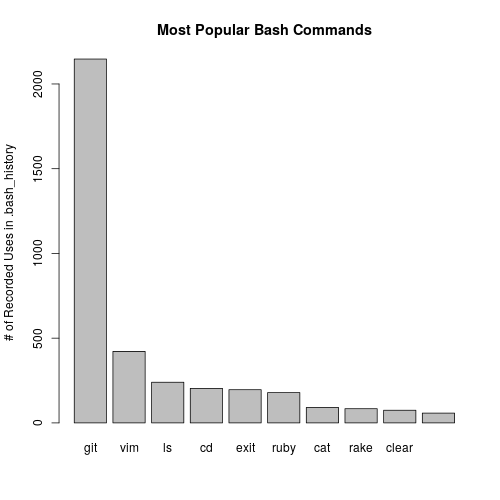
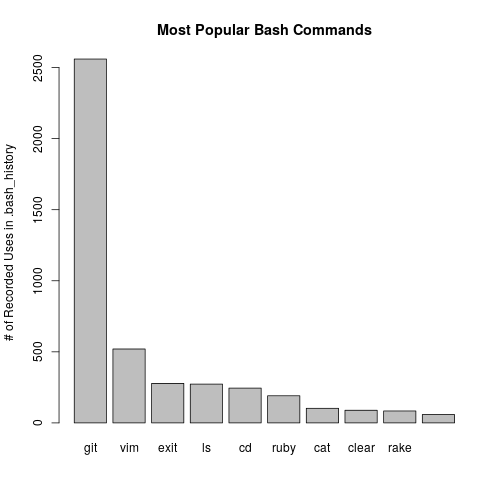
Categorize Data by Totals & Dates

diff --git a/analyze.rb b/analyze.rb
@@ -2,7 +2,7 @@
 
 require 'json'
 
-data = {}
+data = { totals: {} }
 aliases = {}
 
 # replace *.rb with ruby etc.
@@ -34,6 +34,9 @@ File.readlines('/home/caleb/.bash_aliases').each do |line|
 end
 
 Dir.glob('data/*').each do |file|
+  date = file.match(/([0-9-]{10}) (?:[0-9:]{5})\.txt/i).captures[0]
+  year, month, day = date.split('-')
+
   File.readlines(file).each do |line|
     command = line.strip.split(/[\s;]/)[0]
 
@@ -41,20 +44,22 @@ Dir.glob('data/*').each do |file|
     command = aliases[command] unless aliases[command].nil?
     command = sub_scripts(command)
 
-    if data[command].nil?
-      data[command] = 1
-    else
-      data[command] += 1
-    end
+    data[:totals][command] = data[:totals][command].to_i + 1
+
+    # NOTE Change How This is Found to Change Bin Width
+    bin = year + '-' + month
+
+    data[bin] = {} if data[bin].nil?
+    data[bin][command] = data[bin][command].to_i + 1
   end
 end
 
-data = data.sort_by{ |name, count| -count }.to_h
+data[:totals] = data[:totals].sort_by{ |name, count| -count }.to_h
 
-puts "Total Lines Analyzed: " + data.values.reduce(:+).to_s
+puts "Total Lines Analyzed: " + data[:totals].values.reduce(:+).to_s
 puts "------------------------------"
 
-data.first(20).each_with_index do |(name, count), index|
+data[:totals].first(20).each_with_index do |(name, count), index|
   printf "#%02d: %-12s (%04d)\n", index+1, name, count
 end
 
